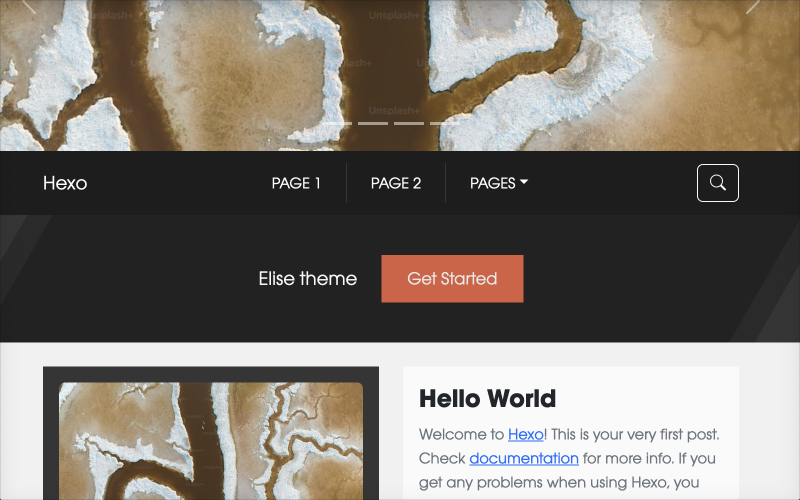
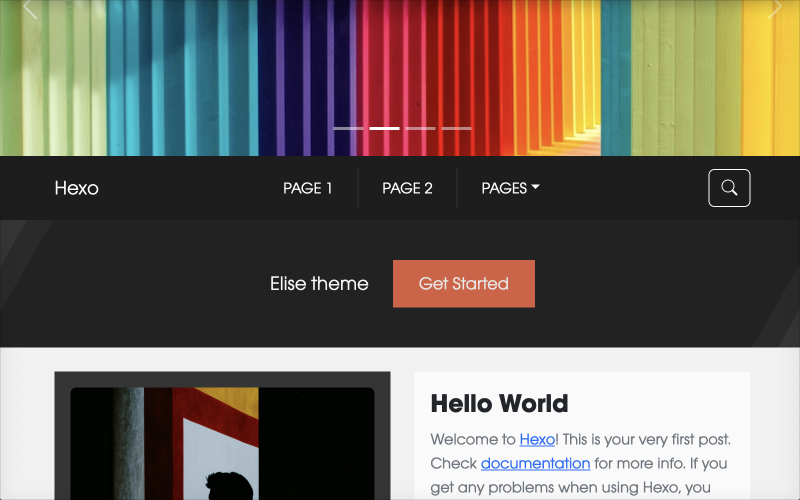
update

diff --git a/2023/10/30/hello-world/index.html b/2023/10/30/hello-world/index.html
@@ -56,7 +56,7 @@
     <div class="carousel-inner">
         
             <div class="carousel-item active" data-bs-interval=5000>
-                <img src=https://source.unsplash.com/random/?medium class="d-block w-100" style="height: 300px">
+                <img src=https://source.unsplash.com/random/?wallpaper class="d-block w-100" style="height: 300px">
             </div>
         
             <div class="carousel-item " data-bs-interval=5000>

diff --git a/archives/2023/10/index.html b/archives/2023/10/index.html
@@ -52,7 +52,7 @@
     <div class="carousel-inner">
         
             <div class="carousel-item active" data-bs-interval=5000>
-                <img src=https://source.unsplash.com/random/?medium class="d-block w-100" style="height: 300px">
+                <img src=https://source.unsplash.com/random/?wallpaper class="d-block w-100" style="height: 300px">
             </div>
         
             <div class="carousel-item " data-bs-interval=5000>

diff --git a/archives/2023/index.html b/archives/2023/index.html
@@ -52,7 +52,7 @@
     <div class="carousel-inner">
         
             <div class="carousel-item active" data-bs-interval=5000>
-                <img src=https://source.unsplash.com/random/?medium class="d-block w-100" style="height: 300px">
+                <img src=https://source.unsplash.com/random/?wallpaper class="d-block w-100" style="height: 300px">
             </div>
         
             <div class="carousel-item " data-bs-interval=5000>

diff --git a/archives/index.html b/archives/index.html
@@ -52,7 +52,7 @@
     <div class="carousel-inner">
         
             <div class="carousel-item active" data-bs-interval=5000>
-                <img src=https://source.unsplash.com/random/?medium class="d-block w-100" style="height: 300px">
+                <img src=https://source.unsplash.com/random/?wallpaper class="d-block w-100" style="height: 300px">
             </div>
         
             <div class="carousel-item " data-bs-interval=5000>

diff --git a/index.html b/index.html
@@ -52,7 +52,7 @@
     <div class="carousel-inner">
         
             <div class="carousel-item active" data-bs-interval=5000>
-                <img src=https://source.unsplash.com/random/?medium class="d-block w-100" style="height: 300px">
+                <img src=https://source.unsplash.com/random/?wallpaper class="d-block w-100" style="height: 300px">
             </div>
         
             <div class="carousel-item " data-bs-interval=5000>
